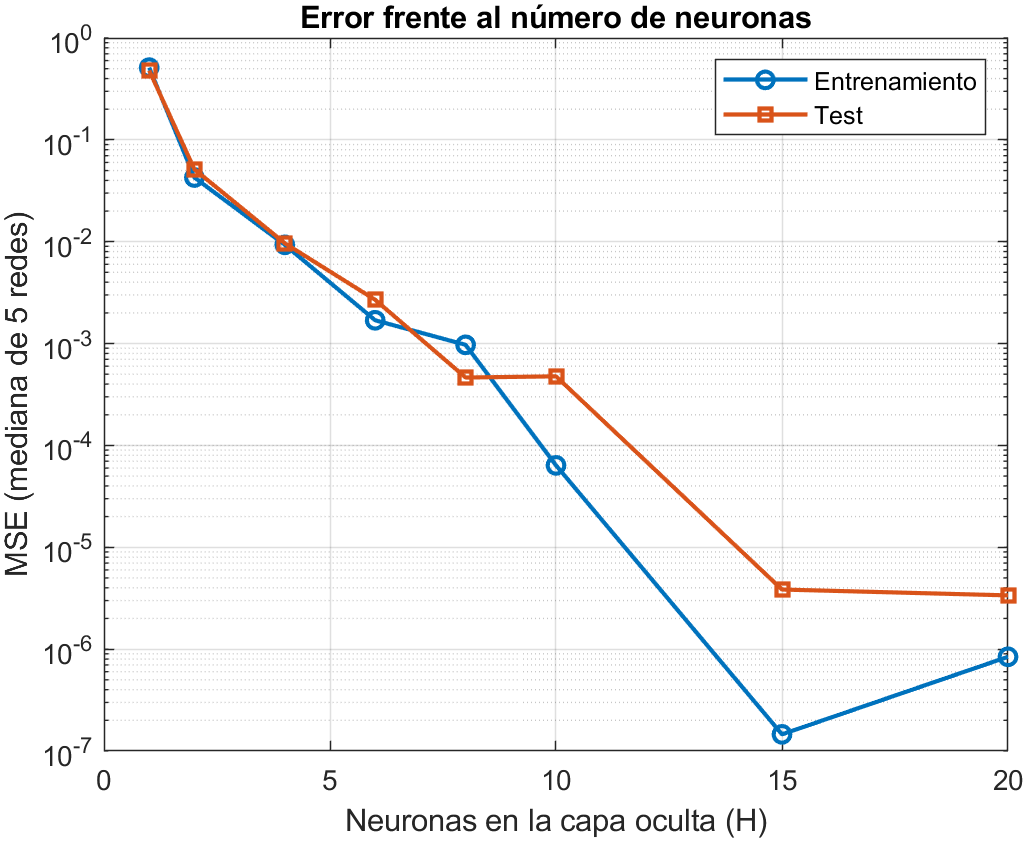
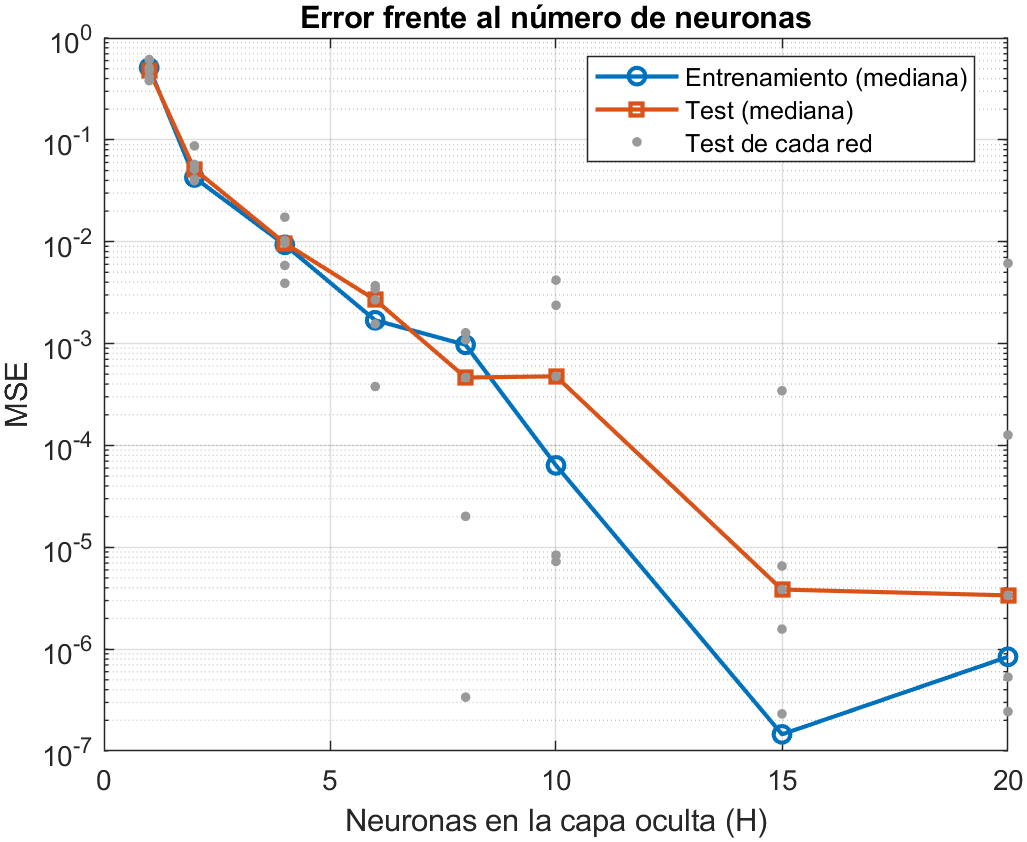
comienzo p1_2_f

diff --git a/S3/parte_2/comprobacion_neuronas.m b/S3/parte_2/comprobacion_neuronas.m
@@ -26,8 +26,10 @@ end
 
 figure;
 semilogy(Hs, median(mseTrain, 2), 'o-', Hs, median(mseTest, 2), 's-', 'LineWidth', 1.5);
+hold on;
+semilogy(Hs, mseTest, '.', 'Color', [0.6 0.6 0.6], 'MarkerSize', 12);   % test de cada red
 grid on;
 xlabel('Neuronas en la capa oculta (H)');
-ylabel('MSE (mediana de 5 redes)');
-legend('Entrenamiento', 'Test');
+ylabel('MSE');
+legend('Entrenamiento (mediana)', 'Test (mediana)', 'Test de cada red', 'Location', 'best');
 title('Error frente al número de neuronas');
